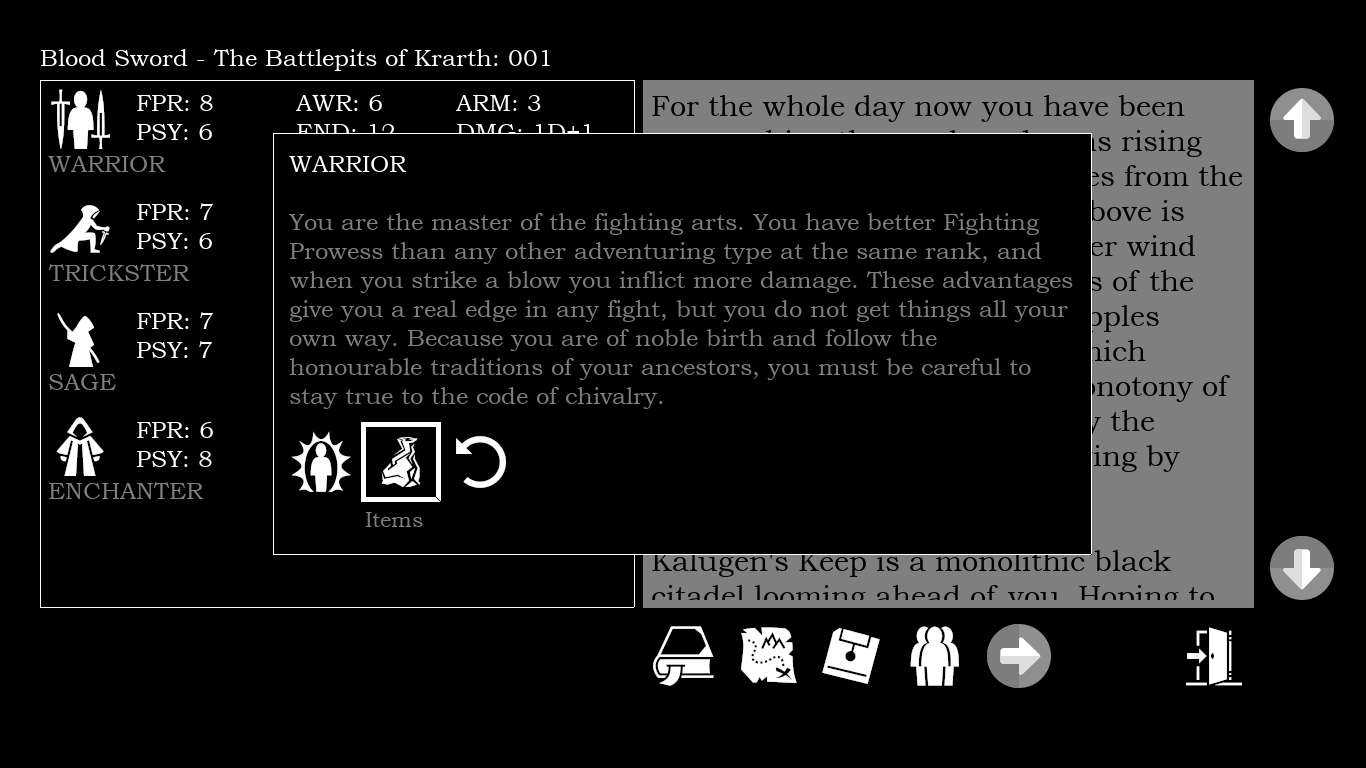
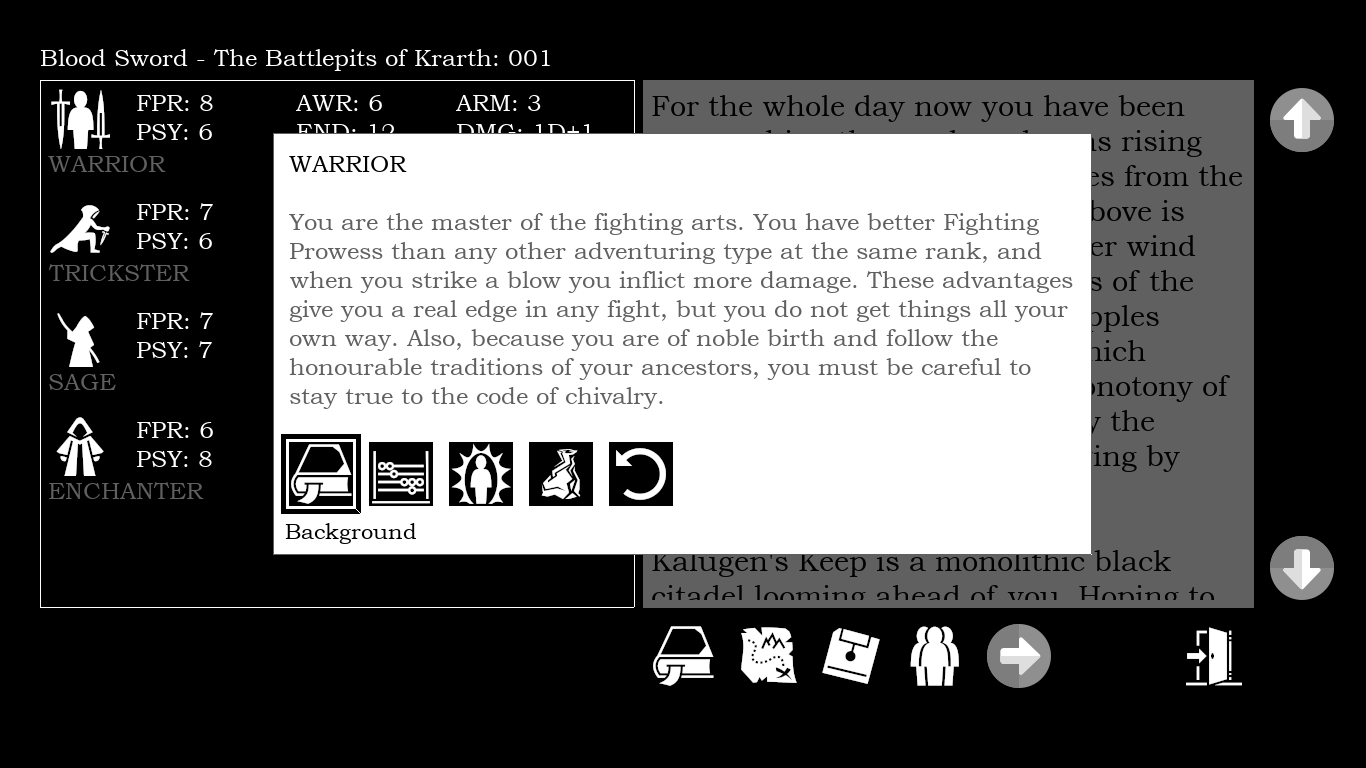
further updates

diff --git a/src/interface.hpp b/src/interface.hpp
@@ -567,7 +567,7 @@ namespace Interface
         return NearestPlayer;
     }
 
-    void CharacterSheet(SDL_Renderer *Renderer, Character::Base &Character, TTF_Font *Font, int TextWidth, int X, int Y, bool FlipColors)
+    void CharacterSheet(SDL_Renderer *Renderer, Character::Base &Character, TTF_Font *Font, int TextWidth, int X, int Y, Uint32 Bg, bool FlipColors)
     {
         auto FontSize = TTF_FontHeight(Font);
 
@@ -585,20 +585,20 @@ namespace Interface
         auto Damage = Character.Damage;
         auto DamageModifier = Character.DamageModifier + (Weapons.size() > 0 ? Weapons[0].Damage : 0);
 
-        Graphics::PutText(Renderer, Character::ClassName[Character.Class], Font, 0, FlipColors ? clrWH : clrGR, intBK, TTF_STYLE_NORMAL, TextWidth, FontSize, X, Y);
-        Graphics::PutText(Renderer, std::string("RANK: " + std::to_string(Character.Rank)).c_str(), Font, 0, FlipColors ? clrGR : clrWH, intBK, TTF_STYLE_NORMAL, TextWidth, FontSize, X, Y + (FontSize + 2));
-        Graphics::PutText(Renderer, std::string("FIGHTING PROWESS: " + std::to_string(FightingProwess)).c_str(), Font, 0, FlipColors ? clrGR : clrWH, intBK, TTF_STYLE_NORMAL, TextWidth, FontSize, X, Y + 2 * (FontSize + 2));
-        Graphics::PutText(Renderer, std::string("PSYCHIC ABILITY: " + std::to_string(PsychicAbility)).c_str(), Font, 0, FlipColors ? clrGR : clrWH, intBK, TTF_STYLE_NORMAL, TextWidth, FontSize, X, Y + 3 * (FontSize + 2));
-        Graphics::PutText(Renderer, std::string("AWARENESS: " + std::to_string(Awareness)).c_str(), Font, 0, FlipColors ? clrGR : clrWH, intBK, TTF_STYLE_NORMAL, TextWidth, FontSize, X, Y + 4 * (FontSize + 2));
-        Graphics::PutText(Renderer, std::string("ENDURANCE: " + std::to_string(Endurance)).c_str(), Font, 0, FlipColors ? clrGR : clrWH, intBK, TTF_STYLE_NORMAL, TextWidth, FontSize, X, Y + 5 * (FontSize + 2));
-        Graphics::PutText(Renderer, std::string("ARMOUR RATING: " + std::to_string(Armour)).c_str(), Font, 0, FlipColors ? clrGR : clrWH, intBK, TTF_STYLE_NORMAL, TextWidth, FontSize, X, Y + 6 * (FontSize + 2));
-        Graphics::PutText(Renderer, std::string("DAMAGE: " + std::to_string(Damage) + (DamageModifier >= 0 ? "D+" : "D") + std::to_string(DamageModifier)).c_str(), Font, 0, FlipColors ? clrGR : clrWH, intBK, TTF_STYLE_NORMAL, TextWidth, FontSize, X, Y + 7 * (FontSize + 2));
-        Graphics::PutText(Renderer, std::string("EXPERIENCE: " + std::to_string(Character.ExperiencePoints)).c_str(), Font, 0, FlipColors ? clrGR : clrWH, intBK, TTF_STYLE_NORMAL, TextWidth, FontSize, X, Y + 8 * (FontSize + 2));
+        Graphics::PutText(Renderer, Character::ClassName[Character.Class], Font, 0, FlipColors ? clrBK : clrGR, Bg, TTF_STYLE_NORMAL, TextWidth, FontSize, X, Y);
+        Graphics::PutText(Renderer, std::string("RANK: " + std::to_string(Character.Rank)).c_str(), Font, 0, FlipColors ? clrGR : clrWH, Bg, TTF_STYLE_NORMAL, TextWidth, FontSize, X, Y + (FontSize + 2));
+        Graphics::PutText(Renderer, std::string("FIGHTING PROWESS: " + std::to_string(FightingProwess)).c_str(), Font, 0, FlipColors ? clrGR : clrWH, Bg, TTF_STYLE_NORMAL, TextWidth, FontSize, X, Y + 2 * (FontSize + 2));
+        Graphics::PutText(Renderer, std::string("PSYCHIC ABILITY: " + std::to_string(PsychicAbility)).c_str(), Font, 0, FlipColors ? clrGR : clrWH, Bg, TTF_STYLE_NORMAL, TextWidth, FontSize, X, Y + 3 * (FontSize + 2));
+        Graphics::PutText(Renderer, std::string("AWARENESS: " + std::to_string(Awareness)).c_str(), Font, 0, FlipColors ? clrGR : clrWH, Bg, TTF_STYLE_NORMAL, TextWidth, FontSize, X, Y + 4 * (FontSize + 2));
+        Graphics::PutText(Renderer, std::string("ENDURANCE: " + std::to_string(Endurance)).c_str(), Font, 0, FlipColors ? clrGR : clrWH, Bg, TTF_STYLE_NORMAL, TextWidth, FontSize, X, Y + 5 * (FontSize + 2));
+        Graphics::PutText(Renderer, std::string("ARMOUR RATING: " + std::to_string(Armour)).c_str(), Font, 0, FlipColors ? clrGR : clrWH, Bg, TTF_STYLE_NORMAL, TextWidth, FontSize, X, Y + 6 * (FontSize + 2));
+        Graphics::PutText(Renderer, std::string("DAMAGE: " + std::to_string(Damage) + (DamageModifier >= 0 ? "D+" : "D") + std::to_string(DamageModifier)).c_str(), Font, 0, FlipColors ? clrGR : clrWH, Bg, TTF_STYLE_NORMAL, TextWidth, FontSize, X, Y + 7 * (FontSize + 2));
+        Graphics::PutText(Renderer, std::string("EXPERIENCE: " + std::to_string(Character.ExperiencePoints)).c_str(), Font, 0, FlipColors ? clrGR : clrWH, Bg, TTF_STYLE_NORMAL, TextWidth, FontSize, X, Y + 8 * (FontSize + 2));
     }
 
     void CharacterSheet(SDL_Renderer *Renderer, Map::Base &Map, Party::Base &Party, TTF_Font *Font, int PlayerId)
     {
-        Interface::CharacterSheet(Renderer, Party.Members[PlayerId], Font, Map.TextRightWidth, Map.TextRightX, Map.DrawY, false);
+        Interface::CharacterSheet(Renderer, Party.Members[PlayerId], Font, Map.TextRightWidth, Map.TextRightX, Map.DrawY, intBK, false);
 
         auto FontSize = TTF_FontHeight(Font);
 
@@ -4783,7 +4783,7 @@ namespace Interface
         auto RowHeight = TTF_FontHeight(Fonts::Normal);
         auto TextY = WindowY + 2 * text_space;
         auto ButtonX = WindowX + 2 * text_space;
-        auto OffsetY = (WindowY + WindowH) - (Screen.IconSize + text_space + FontSize);
+        auto OffsetY = (WindowY + WindowH) - (Screen.IconSize + FontSize + border_pts);
 
         auto Hold = false;
         auto Selected = false;
@@ -4793,35 +4793,35 @@ namespace Interface
 
         auto Controls = std::vector<Button>();
 
-        Controls.push_back(Button(0, Assets::Get(Assets::Type::Encyclopedia), 0, 1, 0, 0, ButtonX, OffsetY, intWH, Control::Type::INFO));
-        Controls.push_back(Button(1, Assets::Get(Assets::Type::Stats), 0, 2, 1, 1, ButtonX + Screen.IconSize, OffsetY, intWH, Control::Type::STATS));
-        Controls.push_back(Button(2, Assets::Get(Assets::Type::UseAbility), 1, 3, 2, 2, ButtonX + 2 * Screen.IconSize, OffsetY, intWH, Control::Type::ABILITY));
-        Controls.push_back(Button(3, Assets::Get(Assets::Type::Items), 2, 4, 3, 3, ButtonX + 3 * Screen.IconSize, OffsetY, intWH, Control::Type::ITEMS));
-        Controls.push_back(Button(4, Assets::Get(Assets::Type::Back), 3, 4, 3, 3, ButtonX + 4 * Screen.IconSize, OffsetY, intWH, Control::Type::BACK));
+        Controls.push_back(Button(0, Assets::Get(Assets::Type::Encyclopedia), 0, 1, 0, 0, ButtonX, OffsetY, intBK, Control::Type::INFO));
+        Controls.push_back(Button(1, Assets::Get(Assets::Type::Stats), 0, 2, 1, 1, ButtonX + Screen.IconSize, OffsetY, intBK, Control::Type::STATS));
+        Controls.push_back(Button(2, Assets::Get(Assets::Type::UseAbility), 1, 3, 2, 2, ButtonX + 2 * Screen.IconSize, OffsetY, intBK, Control::Type::ABILITY));
+        Controls.push_back(Button(3, Assets::Get(Assets::Type::Items), 2, 4, 3, 3, ButtonX + 3 * Screen.IconSize, OffsetY, intBK, Control::Type::ITEMS));
+        Controls.push_back(Button(4, Assets::Get(Assets::Type::Back), 3, 4, 3, 3, ButtonX + 4 * Screen.IconSize, OffsetY, intBK, Control::Type::BACK));
 
         auto done = false;
 
         while (!done)
         {
             Interface::RenderStoryScreen(Window, Renderer, Party, Story, Screen, StoryScreen, Text, -1, Offset);
-            Graphics::FillRect(Renderer, WindowW, WindowH, WindowX, WindowY, intBK);
-            Graphics::DrawRect(Renderer, WindowW, WindowH, WindowX, WindowY, intWH);
+            Graphics::FillRect(Renderer, WindowW, WindowH, WindowX, WindowY, intWH);
+            Graphics::DrawRect(Renderer, WindowW, WindowH, WindowX, WindowY, intGR);
 
             if (Current >= 0 && Current < Controls.size() && Controls[Current].Type == Control::Type::STATS)
             {
-                Interface::CharacterSheet(Renderer, Party.Members[Character], Fonts::Normal, WindowTextWidth, ButtonX, TextY, true);
+                Interface::CharacterSheet(Renderer, Party.Members[Character], Fonts::Normal, WindowTextWidth, ButtonX, TextY, intWH, true);
             }
             else
             {
-                Graphics::PutText(Renderer, Character::ClassName[Party.Members[Character].Class], Fonts::Normal, 0, clrWH, intBK, TTF_STYLE_NORMAL, WindowTextWidth, RowHeight, ButtonX, TextY);
-                Graphics::PutText(Renderer, Character::Description[Party.Members[Character].Class], Fonts::Normal, 0, clrGR, intBK, TTF_STYLE_NORMAL, WindowTextWidth, RowHeight, ButtonX, TextY + 2 * RowHeight);
+                Graphics::PutText(Renderer, Character::ClassName[Party.Members[Character].Class], Fonts::Normal, 0, clrBK, intWH, TTF_STYLE_NORMAL, WindowTextWidth, RowHeight, ButtonX, TextY);
+                Graphics::PutText(Renderer, Character::Description[Party.Members[Character].Class], Fonts::Normal, 0, clrGR, intWH, TTF_STYLE_NORMAL, WindowTextWidth, RowHeight, ButtonX, TextY + 2 * RowHeight);
             }
 
             Graphics::RenderButtons(Renderer, Controls, Current, text_space, 4);
 
             if (Current >= 0 && Current < Controls.size())
             {
-                Graphics::RenderCaption(Renderer, Controls[Current], clrGR, intBK);
+                Graphics::RenderCaption(Renderer, Controls[Current], clrBK, intWH);
             }
 
             Input::GetInput(Renderer, Controls, Current, Selected, ScrollUp, ScrollDown, Hold, 50);

diff --git a/src/globals.hpp b/src/globals.hpp
@@ -17,12 +17,12 @@ const SDL_Color clrMG = {191, 0, 191, 0};
 const SDL_Color clrLM = {255, 0, 255, 0};
 const SDL_Color clrBR = {132, 85, 62, 0};
 const SDL_Color clrRD = {255, 0, 0, 0};
-const SDL_Color clrGR = {127, 127, 127, 255};
+const SDL_Color clrGR = {96, 96, 96, 255};
 
 const Uint32 intBK = 0x00000000;
 const Uint32 intRD = 0xFFFF0000;
 const Uint32 intWH = 0xFFFFFFFF;
-const Uint32 intGR = 0xFF7F7F7F;
+const Uint32 intGR = 0xFF606060;
 const Uint32 intGN = 0xFF064A3E;
 const Uint32 intLG = 0xFF4F9937;
 const Uint32 intYW = 0xFFF7AD07;

diff --git a/README.md b/README.md
@@ -44,6 +44,8 @@ This is an SDL Implementation of the Blood Sword gamebooks by Dave Morris and Ol
 
 ![Manage Adventurer](/screenshots/manage-adventurer.png)
 
+![Adventure Sheet](/screenshots/adventurer-stats.png)
+
 ## Character classes in implemented in combat
 
 - Warrior (**DONE**)
